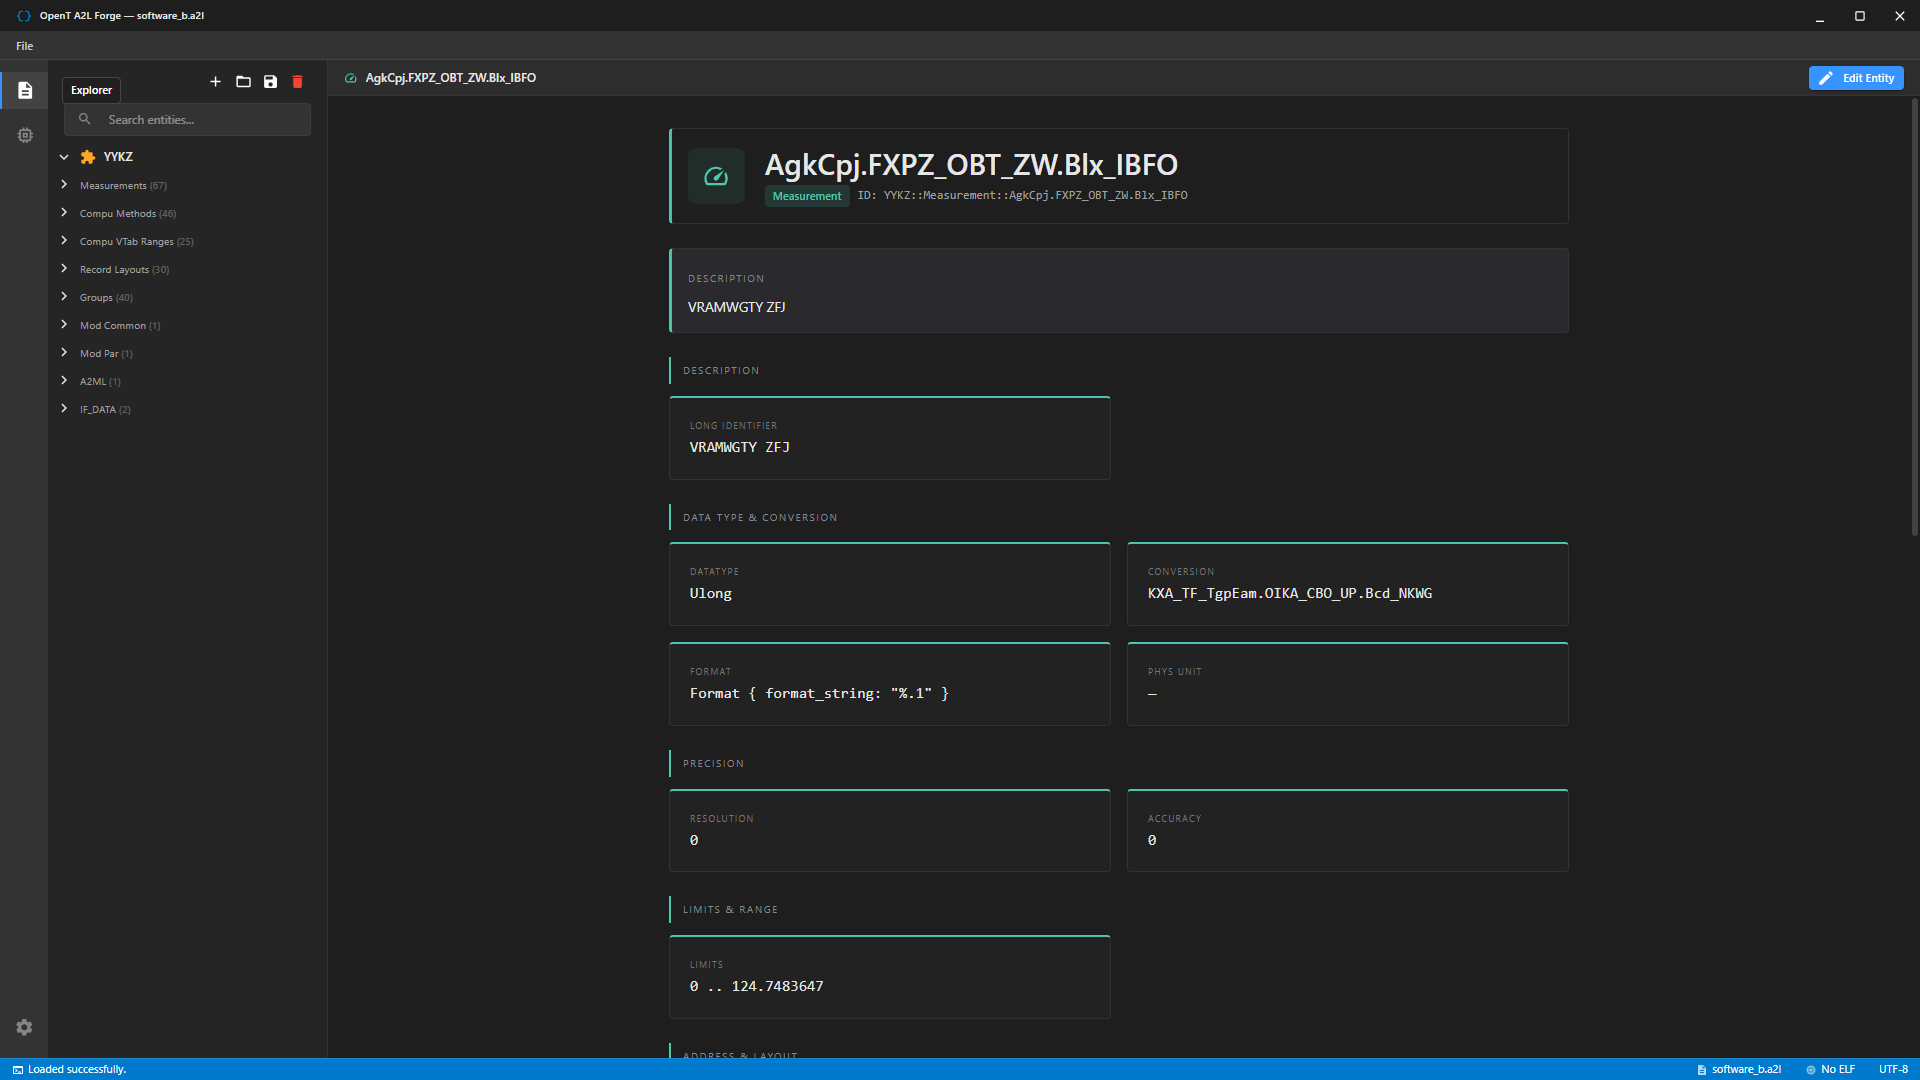
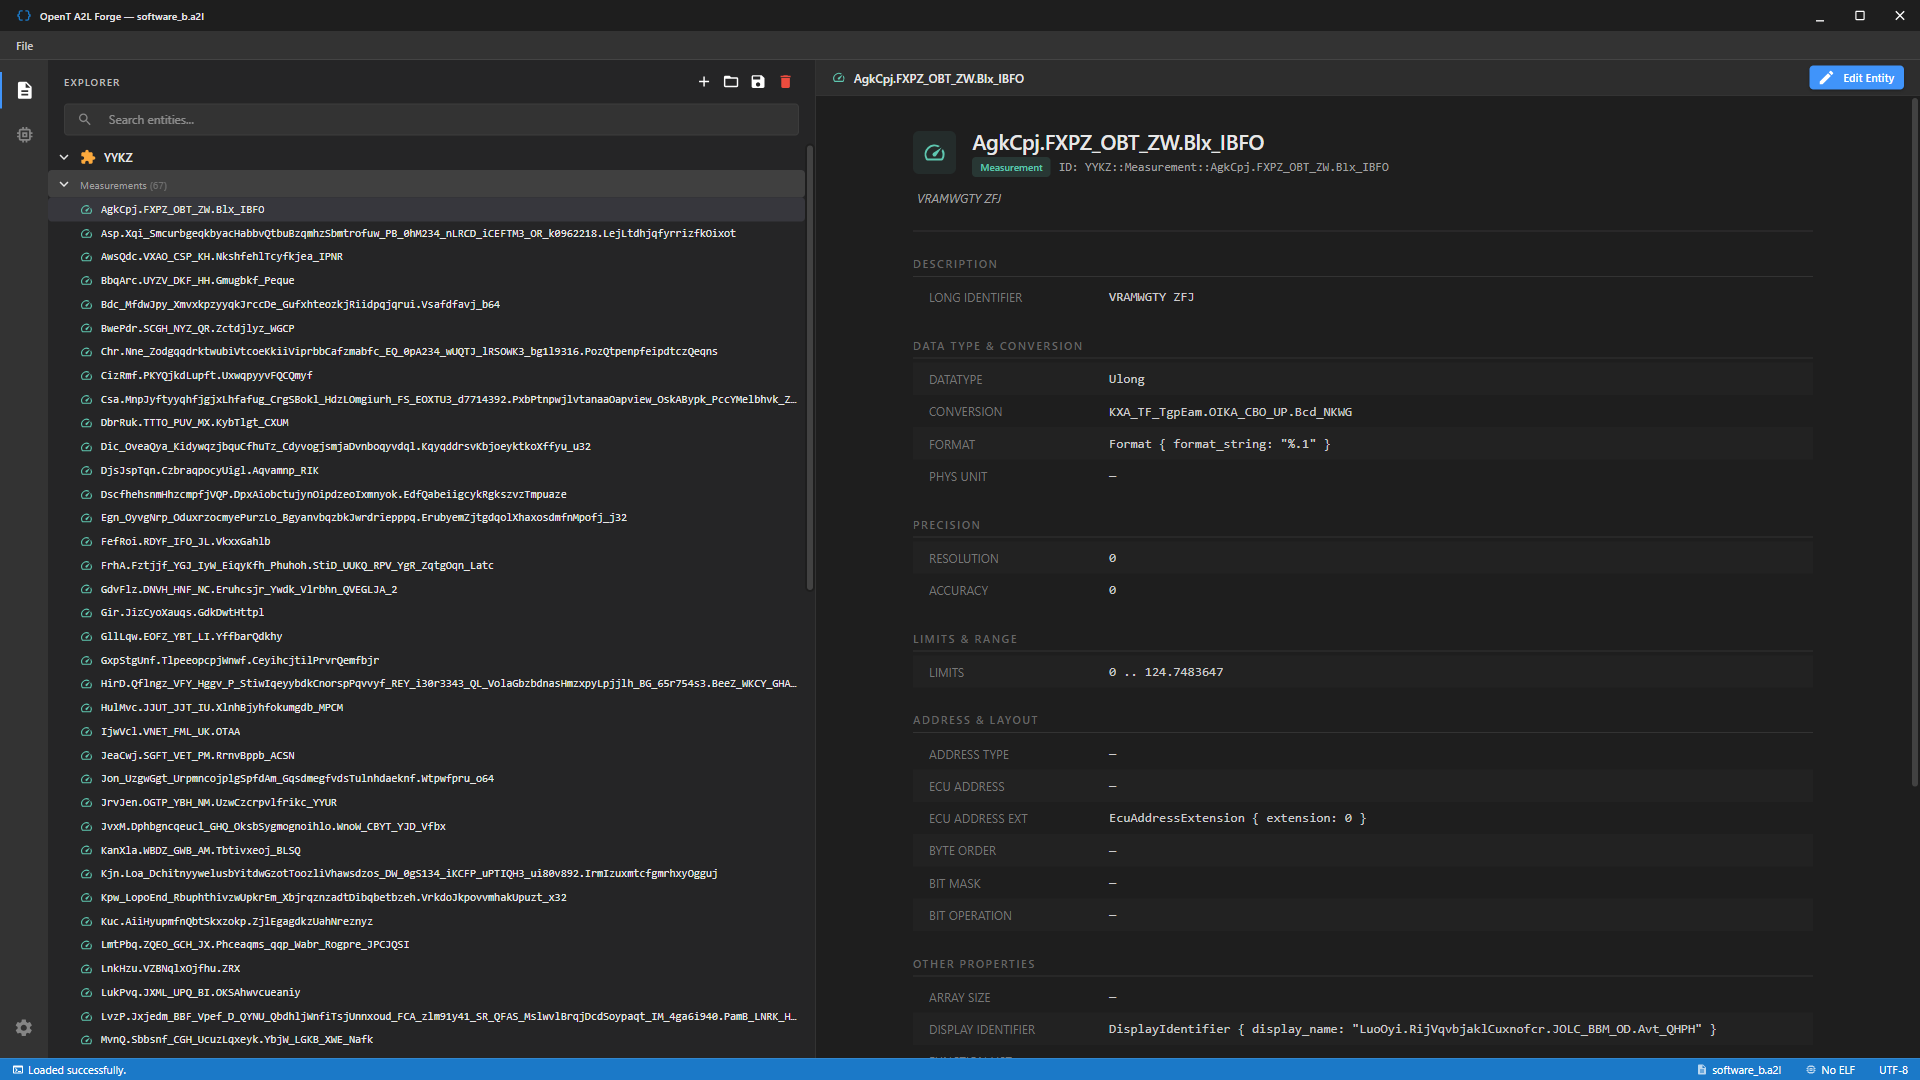
feat: clean table layout for A2L detail view + retake screenshots
Replace card-per-property grid with compact two-column table layout.
Section headers with dividers, alternating row backgrounds, inline
description in header. Add screenshot capture script.

diff --git a/src/App.tsx b/src/App.tsx
@@ -22,8 +22,6 @@ import {
   Tooltip,
   InputBase,
   LinearProgress,
-  Card,
-  CardContent,
   Table,
   TableBody,
   TableCell,
@@ -1738,36 +1736,29 @@ function App() {
                         )}
                      </Paper>
                 ) : (
-                    <Box data-testid="entity-detail" sx={{ maxWidth: 900, mx: "auto", display: "flex", flexDirection: "column", gap: 3 }}>
+                    <Box data-testid="entity-detail" sx={{ maxWidth: 900, mx: "auto" }}>
                        {/* Header Section */}
-                       <Card variant="outlined" sx={{ bgcolor: "#1e1e1e", borderColor: "#333", borderLeft: `3px solid ${getKindColor(selectedItem.kind)}` }}>
-                         <CardContent sx={{ pb: "16px !important" }}>
-                           <Stack direction="row" alignItems="center" spacing={2.5}>
-                                <Box sx={{ p: 1.8, bgcolor: `${getKindColor(selectedItem.kind)}15`, borderRadius: 2, display: "flex", alignItems: "center", justifyContent: "center", fontSize: 28 }}>
+                       <Box sx={{ pb: 3, borderBottom: "1px solid #333" }}>
+                           <Stack direction="row" alignItems="center" spacing={2}>
+                                <Box sx={{ p: 1.2, bgcolor: `${getKindColor(selectedItem.kind)}15`, borderRadius: 1.5, display: "flex", alignItems: "center", justifyContent: "center", fontSize: 24 }}>
                                     {getKindIcon(selectedItem.kind)}
                                 </Box>
-                                <Box>
-                                    <Typography variant="h4" sx={{ fontWeight: 600 }}>{selectedItem.name}</Typography>
-                                    <Stack direction="row" spacing={1} alignItems="center" sx={{ mt: 0.5 }}>
-                                        <Chip label={selectedItem.kind} size="small" sx={{ borderRadius: 1, height: 22, fontSize: 11, fontWeight: 600, bgcolor: `${getKindColor(selectedItem.kind)}25`, color: getKindColor(selectedItem.kind), border: "none" }} />
-                                        <Typography variant="body2" color="text.secondary" sx={{ fontFamily: "monospace" }}>ID: {selectedItem.id}</Typography>
+                                <Box sx={{ flex: 1 }}>
+                                    <Typography variant="h5" sx={{ fontWeight: 600, lineHeight: 1.3 }}>{selectedItem.name}</Typography>
+                                    <Stack direction="row" spacing={1} alignItems="center" sx={{ mt: 0.3 }}>
+                                        <Chip label={selectedItem.kind} size="small" sx={{ borderRadius: 1, height: 20, fontSize: 10, fontWeight: 600, bgcolor: `${getKindColor(selectedItem.kind)}25`, color: getKindColor(selectedItem.kind), border: "none" }} />
+                                        <Typography variant="body2" color="text.secondary" sx={{ fontFamily: "monospace", fontSize: 12 }}>ID: {selectedItem.id}</Typography>
                                     </Stack>
                                 </Box>
                            </Stack>
-                         </CardContent>
-                       </Card>
-                       
-                       {/* Description Section */}
-                       <Card variant="outlined" sx={{ bgcolor: "#2a2a2e", borderColor: "#333", borderLeft: `3px solid ${getKindColor(selectedItem.kind)}` }}>
-                         <CardContent sx={{ pb: "16px !important" }}>
-                           <Typography variant="overline" sx={{ color: "#888", letterSpacing: 1.5, fontSize: 10 }}>DESCRIPTION</Typography>
-                           <Typography variant="body1" sx={{ mt: 0.5, fontStyle: selectedItem.description ? "normal" : "italic", color: selectedItem.description ? "text.primary" : "text.secondary" }}>
-                              {selectedItem.description || "No description provided."}
-                           </Typography>
-                         </CardContent>
-                       </Card>
+                           {selectedItem.description && (
+                               <Typography variant="body2" sx={{ mt: 1.5, fontStyle: "italic", color: "text.secondary", pl: 0.5 }}>
+                                   {selectedItem.description}
+                               </Typography>
+                           )}
+                       </Box>
 
-                        {/* Properties Grid — grouped by section */}
+                        {/* Properties — grouped by section, table layout */}
                         {(() => {
                           const sections: Record<string, typeof selectedItem.details> = {};
                           selectedItem.details?.forEach(d => {
@@ -1775,20 +1766,20 @@ function App() {
                             if (!sections[sec]) sections[sec] = [];
                             sections[sec]!.push(d);
                           });
-                          const kindColor = getKindColor(selectedItem.kind);
+                          let globalIdx = 0;
                           return Object.entries(sections).map(([section, props]) => (
                             <Box key={section}>
-                              <Typography variant="overline" sx={{ mb: 1.5, display: "block", color: "#888", letterSpacing: 1.5, fontSize: 10, borderLeft: `2px solid ${kindColor}`, pl: 1.5 }}>{section}</Typography>
-                              <Box sx={{ display: "grid", gridTemplateColumns: "repeat(auto-fill, minmax(300px, 1fr))", gap: 2 }}>
-                                {props?.map(d => (
-                                    <Card key={d.label} variant="outlined" sx={{ bgcolor: "#222", borderColor: "#333", borderTop: `2px solid ${kindColor}` }}>
-                                        <CardContent sx={{ p: 2.5, pb: "20px !important" }}>
-                                            <Typography variant="caption" sx={{ color: "#777", letterSpacing: 1.2, fontSize: 9, textTransform: "uppercase" }} display="block" gutterBottom>{d.label}</Typography>
-                                            <Typography variant="body1" sx={{ fontFamily: '"JetBrains Mono", monospace', wordBreak: "break-all", fontSize: "0.95rem", fontWeight: 500 }}>{d.value}</Typography>
-                                        </CardContent>
-                                    </Card>
-                                ))}
-                              </Box>
+                              <Typography sx={{ color: "#666", fontSize: 11, fontWeight: 600, letterSpacing: 1.5, textTransform: "uppercase", mt: 3, mb: 0.5 }}>{section}</Typography>
+                              <Divider sx={{ borderColor: "#333", mb: 0.5 }} />
+                              {props?.map(d => {
+                                const rowIdx = globalIdx++;
+                                return (
+                                  <Box key={d.label} sx={{ display: "grid", gridTemplateColumns: "180px 1fr", py: 0.8, px: 2, bgcolor: rowIdx % 2 === 0 ? "transparent" : "rgba(255,255,255,0.02)" }}>
+                                      <Typography sx={{ color: "#777", fontSize: 12, textTransform: "uppercase", alignSelf: "center" }}>{d.label}</Typography>
+                                      <Typography sx={{ fontFamily: '"JetBrains Mono", monospace', fontSize: 13, color: "#ccc", wordBreak: "break-all", alignSelf: "center" }}>{d.value}</Typography>
+                                  </Box>
+                                );
+                              })}
                             </Box>
                           ));
                         })()}

diff --git a/scripts/take-screenshots.ts b/scripts/take-screenshots.ts
@@ -1,0 +1,160 @@
+/**
+ * Capture README screenshots at 1920x1080 using the real release binary.
+ *
+ * Usage: npx playwright test scripts/take-screenshots.ts --project=binary
+ *   or:  npx tsx scripts/take-screenshots.ts
+ */
+import { chromium, type Page } from "@playwright/test";
+import { spawn, execSync, type ChildProcess } from "child_process";
+import * as path from "path";
+import * as fs from "fs";
+import * as http from "http";
+import { fileURLToPath } from "url";
+
+const __filename = fileURLToPath(import.meta.url);
+const __dirname = path.dirname(__filename);
+
+const CDP_PORT = 9222;
+const BINARY_PATH = path.resolve(__dirname, "../src-tauri/target/release/opent_a2l_forge.exe");
+const SCREENSHOT_DIR = path.resolve(__dirname, "../docs/screenshots");
+const WIDTH = 1920;
+const HEIGHT = 1080;
+
+const FIXTURES = {
+  a2l: path.resolve(__dirname, "../external/a2ltool/fixtures/a2l/software_b.a2l"),
+  elf: path.resolve(__dirname, "../external/a2ltool/fixtures/bin/debugdata_gcc.elf"),
+};
+
+function isCdpAlive(port: number): Promise<boolean> {
+  return new Promise((resolve) => {
+    const req = http.get(`http://127.0.0.1:${port}/json/version`, (res) => {
+      res.on("data", () => {});
+      res.on("end", () => resolve(true));
+    });
+    req.on("error", () => resolve(false));
+    req.setTimeout(1000, () => { req.destroy(); resolve(false); });
+  });
+}
+
+async function waitForCDP(port: number, timeoutMs = 30000): Promise<void> {
+  const start = Date.now();
+  while (Date.now() - start < timeoutMs) {
+    if (await isCdpAlive(port)) return;
+    await new Promise((r) => setTimeout(r, 500));
+  }
+  throw new Error(`CDP not ready on port ${port} after ${timeoutMs}ms`);
+}
+
+async function sleep(ms: number) {
+  await new Promise((r) => setTimeout(r, ms));
+}
+
+async function main() {
+  if (!fs.existsSync(BINARY_PATH)) {
+    throw new Error(`Release binary not found at ${BINARY_PATH}.\nRun 'npm run tauri build' first.`);
+  }
+  fs.mkdirSync(SCREENSHOT_DIR, { recursive: true });
+
+  // Launch binary
+  const alreadyRunning = await isCdpAlive(CDP_PORT);
+  let child: ChildProcess | null = null;
+
+  if (!alreadyRunning) {
+    console.log(`Launching ${BINARY_PATH}...`);
+    child = spawn(BINARY_PATH, [], {
+      env: {
+        ...process.env,
+        WEBVIEW2_ADDITIONAL_BROWSER_ARGUMENTS: `--remote-debugging-port=${CDP_PORT}`,
+      },
+      stdio: "pipe",
+    });
+    await waitForCDP(CDP_PORT);
+    console.log("CDP ready");
+  } else {
+    console.log("Reusing existing binary on CDP port " + CDP_PORT);
+  }
+
+  const browser = await chromium.connectOverCDP(`http://127.0.0.1:${CDP_PORT}`);
+  const context = browser.contexts()[0];
+  if (!context) throw new Error("No browser context");
+  const page = context.pages()[0];
+  if (!page) throw new Error("No page");
+
+  await page.waitForSelector("#root", { timeout: 15000 });
+
+  // Set viewport to 1920x1080
+  await page.setViewportSize({ width: WIDTH, height: HEIGHT });
+  await sleep(500);
+
+  // ── Screenshot 1: A2L Entity Browser & Editor ──
+  console.log("Taking a2l-view screenshot...");
+  const a2lPath = FIXTURES.a2l.replace(/\//g, "\\");
+  await page.evaluate((p: string) => (window as any).__E2E__.loadA2lFromPath(p), a2lPath);
+  await page.getByTestId("entity-tree").waitFor({ timeout: 10000 });
+  await sleep(1000);
+
+  // Expand a tree section and click an entity to show the detail view
+  // Click on Measurement section to expand it
+  const measurementSection = page.getByText("Measurement").first();
+  await measurementSection.click();
+  await sleep(500);
+
+  // Click first entity in the tree to show detail
+  const treeItems = page.locator('[data-testid="entity-tree"] [role="button"]');
+  const count = await treeItems.count();
+  if (count > 1) {
+    await treeItems.nth(1).click();
+    await sleep(500);
+  }
+
+  // Wait for detail view
+  await page.getByTestId("entity-detail").waitFor({ timeout: 5000 }).catch(() => {});
+  await sleep(500);
+
+  await page.screenshot({ path: path.join(SCREENSHOT_DIR, "a2l-view.png") });
+  console.log("  -> a2l-view.png saved");
+
+  // ── Screenshot 2: ELF Symbol Inspector ──
+  console.log("Taking elf-view screenshot...");
+  // Switch to ELF view
+  await page.getByTestId("sidebar-elf").click();
+  await sleep(500);
+
+  const elfPath = FIXTURES.elf.replace(/\//g, "\\");
+  await page.evaluate((p: string) => (window as any).__E2E__.loadElfFromPath(p), elfPath);
+  await sleep(2000);
+
+  await page.screenshot({ path: path.join(SCREENSHOT_DIR, "elf-view.png") });
+  console.log("  -> elf-view.png saved");
+
+  // ── Screenshot 3: ELF-to-A2L Import ──
+  console.log("Taking import-view screenshot...");
+  // Select some symbols using the select-all checkbox
+  await page.getByTestId("checkbox-select-all").click();
+  await sleep(500);
+
+  // Click "Add to Project" button to open import/preview dialog
+  const addBtn = page.getByTestId("btn-add-to-a2l");
+  if (await addBtn.isEnabled()) {
+    await addBtn.click();
+    await sleep(1500);
+  }
+
+  await page.screenshot({ path: path.join(SCREENSHOT_DIR, "import-view.png") });
+  console.log("  -> import-view.png saved");
+
+  // Cleanup
+  await browser.close().catch(() => {});
+  if (child && !child.killed) {
+    child.kill();
+    try { execSync("taskkill /F /IM opent_a2l_forge.exe", { stdio: "ignore" }); } catch {}
+  }
+
+  console.log("\nAll screenshots saved to docs/screenshots/");
+}
+
+main().catch((e) => {
+  console.error(e);
+  try { execSync("taskkill /F /IM opent_a2l_forge.exe", { stdio: "ignore" }); } catch {}
+  process.exit(1);
+});

diff --git a/PLAN.md b/PLAN.md
@@ -383,3 +383,13 @@
   - [x] docs/landing/style.css — VS Code-inspired dark styling
   - [x] .github/workflows/gh-pages.yml — deploy on push to master
 - [x] Smoke test: tsc --noEmit clean, Vite dev server starts without errors
+
+## Iteration 4.97 — A2L Detail View: Clean Table Layout Rework
+- [x] Replaced Card-based entity detail header with compact Box layout (h5, bottom border, inline description)
+- [x] Removed separate Description Card — folded into header as italic secondary text
+- [x] Replaced card-per-property grid with two-column CSS grid table layout (180px label | 1fr value)
+- [x] Added section headers (uppercase overline + Divider) replacing colored-border section labels
+- [x] Alternating row backgrounds (transparent / rgba(255,255,255,0.02)) for readability
+- [x] Removed unused Card/CardContent MUI imports
+- [x] All data-testid attributes preserved (entity-detail, btn-edit)
+- [x] Smoke test: tsc --noEmit clean, Vite dev server starts without errors
